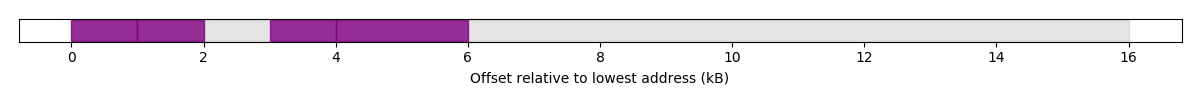
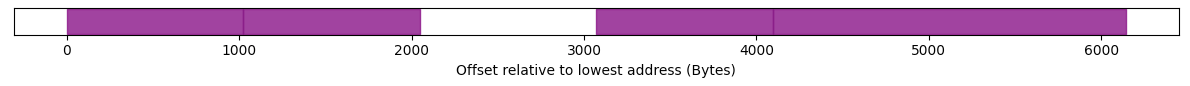
fixing up plot_allocations script and example

diff --git a/examples/cookbook/recipe_plot_allocations.cpp b/examples/cookbook/recipe_plot_allocations.cpp
@@ -26,13 +26,6 @@ int main(int, char**)
   pooled_allocator.deallocate(a[2]);
   a[2] = pooled_allocator.allocate(1024 * 2);
 
-  // Output the records from the underlying host allocator
-  {
-    std::ofstream out("allocator.log");
-    umpire::print_allocator_records(allocator, out);
-    out.close();
-  }
-
   // Output the records from the pooled allocator
   {
     std::ofstream out("pooled_allocator.log");
@@ -44,8 +37,7 @@ int main(int, char**)
     pooled_allocator.deallocate(a[i]);
 
   // Visualize this using the python script. Example usage:
-  // tools/analysis/plot_allocations allocator.log gray 0.2 pooled_allocator.log
-  // purple 0.8
+  // tools/analysis/plot_allocations pooled_allocator.log purple 0.8
 
   return 0;
 }

diff --git a/docs/sphinx/cookbook/plot_allocations.rst b/docs/sphinx/cookbook/plot_allocations.rst
@@ -12,12 +12,11 @@ records from a single allocator, 3 arguments, it can also be used to
 overlay multiple allocators, by passing 3n arguments after the script
 name. In this cookbook we use this feature to visualize a pooled allocator.
 
-The cookbook generates two files, `allocator.log` and
-`pooled_allocator.log`, that contain the allocation records from the
-underlying allocator and the pool. These can then be plotted using a
-command similar to the following:
+The cookbook generates `pooled_allocator.log` which contains the allocation 
+records from the underlying allocator and the pool (QuickPool in this case). 
+These can then be plotted using a command similar to the following:
 
-``tools/plot_allocations allocator.log gray 0.2 pooled_allocator.log purple 0.8``
+``tools/plot_allocations pooled_allocator.log purple 0.8``
 
 That script uses Python and Matplotlib to generate the following image
 
